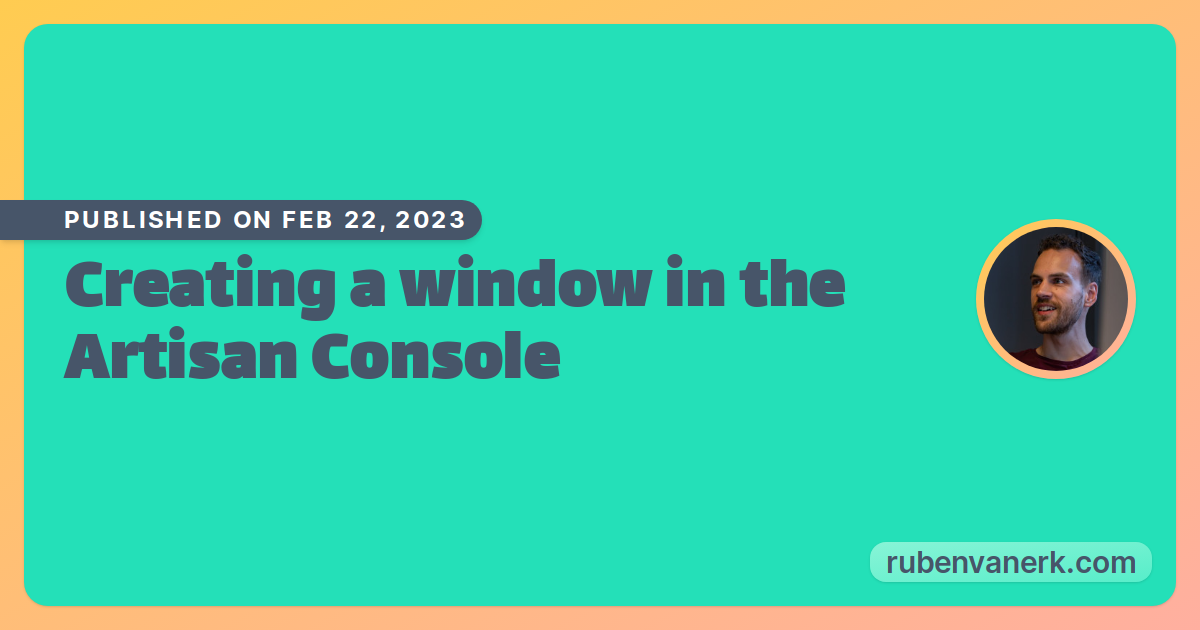
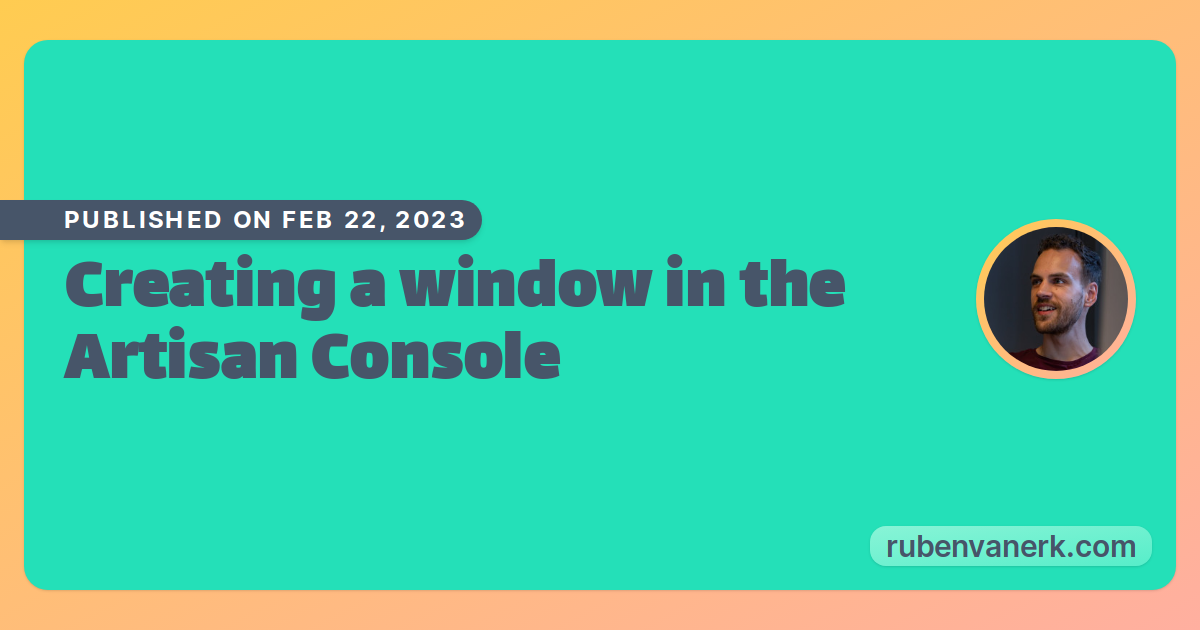
wip

Changed region(s): [[0.0, 0.8143, 0.9867, 0.9651], [0.0, 0.0302, 0.9867, 0.0905]]

diff --git a/resources/views/layout.antlers.html b/resources/views/layout.antlers.html
@@ -5,8 +5,12 @@
     <meta http-equiv="X-UA-Compatible" content="IE=edge">
     <meta name="viewport" content="width=device-width, initial-scale=1">
 
-    <title>{{ title }} — {{ settings:site_name }}</title>
-    <meta name="description" content="{{ excerpt ?? title }}">
+    {{ if seo_meta_title }}
+        <title>{{ seo_meta_title }}</title>
+    {{ else }}
+        <title>{{ title }} — {{ settings:site_name }}</title>
+    {{ /if }}
+    <meta name="description" content="{{ seo_meta_description ?? excerpt ?? title }}">
 
     {{ partial:seo-tags }}
 

diff --git a/resources/views/social_image.antlers.html b/resources/views/social_image.antlers.html
@@ -6,7 +6,7 @@
     {{ vite src="resources/css/tailwind.css|resources/js/site.js" }}
 </head>
 <body class="antialiased">
-<div class="w-[1200px] h-[630px] the-gradient p-6 text-slate-600 text-3xl space-y-3">
+<div class="w-[1200px] h-[630px] the-gradient px-6 py-10 text-slate-600 text-3xl space-y-3">
     <div class="bg-turquoise-400 rounded-3xl shadow p-10 h-full flex flex-col justify-around relative">
         <div class="flex items-center justify-between space-x-8 -mt-8">
             <div>

diff --git a/content/collections/articles/2023-02-24.torchlight-test.md b/content/collections/articles/2023-02-24.torchlight-test.md
@@ -5,7 +5,7 @@ title: 'Lorem ipsum'
 author:
   - 3dc3f142-994f-4ab8-a7e1-c6b36f0524d0
 updated_by: 3dc3f142-994f-4ab8-a7e1-c6b36f0524d0
-updated_at: 1677321447
+updated_at: 1677425359
 excerpt: 'Testing torchlight'
 ---
 Lorem ipsum dolor sit amet, consectetur adipiscing elit, sed do eiusmod tempor incididunt ut labore et dolore magna aliqua. Ut enim ad minim veniam, quis nostrud exercitation ullamco laboris nisi ut aliquip ex ea commodo consequat. Duis aute irure dolor in reprehenderit in voluptate velit esse cillum dolore eu fugiat nulla pariatur. Excepteur sint occaecat cupidatat non proident, sunt in culpa qui officia deserunt mollit anim id est laborum.

diff --git a/content/collections/pages/home.md b/content/collections/pages/home.md
@@ -5,10 +5,12 @@ title: Home
 template: home
 subtitle: "👋 Hey, I'm Ruben!"
 updated_by: 3dc3f142-994f-4ab8-a7e1-c6b36f0524d0
-updated_at: 1677422467
+updated_at: 1677425188
 image_title: 'Ruben van Erk'
 image_subtitle: 'Laravel Developer'
 seo_image_title: 'Ruben van Erk'
 seo_image_subtitle: 'Laravel Developer'
+seo_meta_title: 'Ruben van Erk — Laravel Developer'
+seo_meta_description: 'Ruben van Erk is an experienced Dutch Laravel developer with a passion for building high-quality, user-friendly web applications.'
 ---
 I'm a Laravel & October CMS developer
